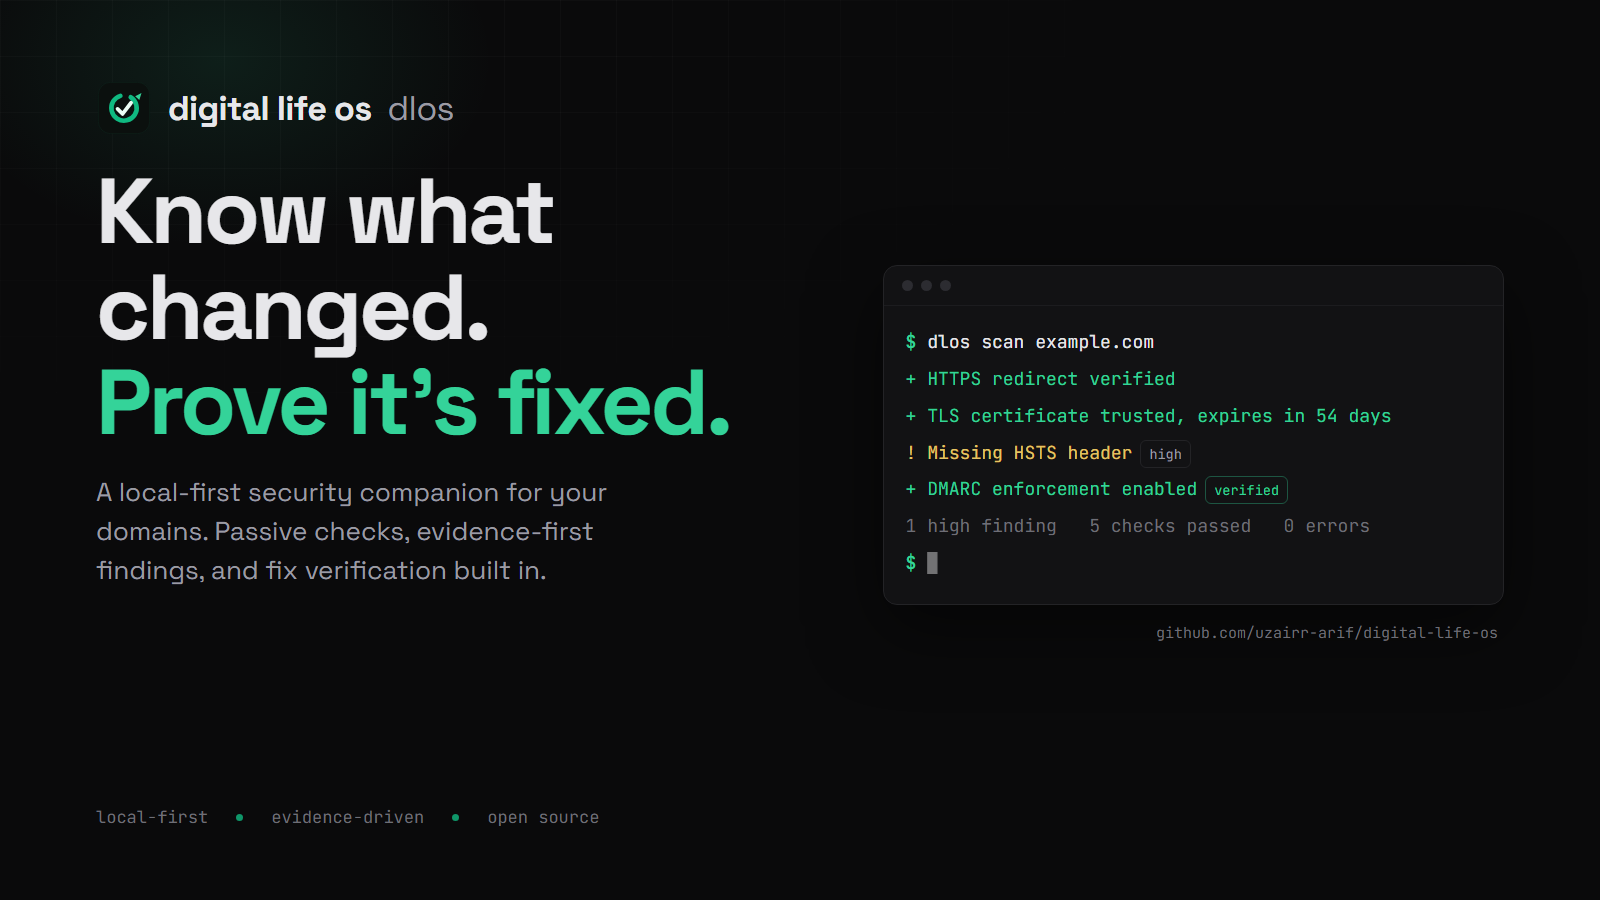
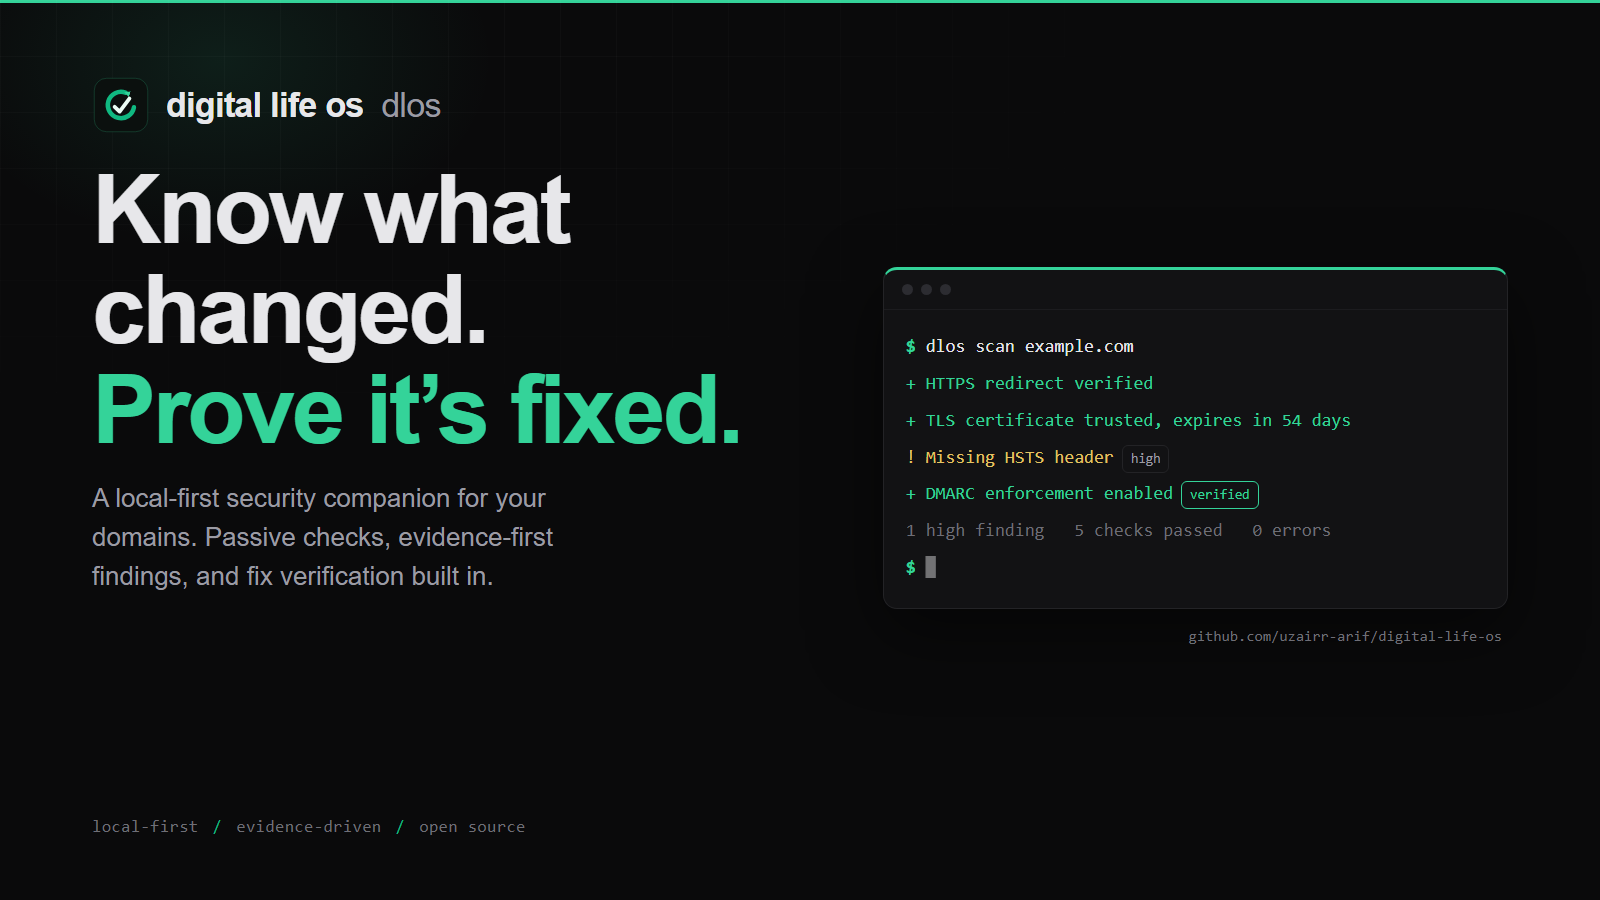
chore(brand): integrate the check into the loop, refresh social assets
The ring now opens toward the upper right and the check's arm reaches
through the opening - one gesture instead of two stacked glyphs. Adds a
mark-only variant for the README hero and site navigation, rebuilds the
social preview (1280x640) and promo tile (1600x900) against the new mark,
and switches the favicon to the unpadded chip.

diff --git a/site/index.html b/site/index.html
@@ -3,12 +3,12 @@
 <head>
 <meta charset="utf-8">
 <meta name="viewport" content="width=device-width, initial-scale=1">
-<title>dlos — know what changed, prove it's fixed</title>
+<title>dlos - know what changed, prove it's fixed</title>
 <meta name="description" content="Digital Life OS (dlos) is a local-first, evidence-driven personal security companion for the domains you own. Passive checks, evidence-first findings, and fix verification built in.">
 <link rel="icon" type="image/svg+xml" href="assets/favicon.svg">
 <link rel="stylesheet" href="assets/fonts/fonts.css">
 <meta property="og:type" content="website">
-<meta property="og:title" content="dlos — know what changed, prove it's fixed">
+<meta property="og:title" content="dlos - know what changed, prove it's fixed">
 <meta property="og:description" content="A local-first security companion for the domains you own: passive checks, evidence-first findings, and fix verification built in.">
 <meta property="og:url" content="https://uzairr-arif.github.io/digital-life-os/">
 <meta property="og:image" content="https://uzairr-arif.github.io/digital-life-os/assets/og.png">
@@ -219,7 +219,7 @@
 <nav>
   <div class="wrap">
     <a class="brand" href="#">
-      <img src="assets/logo.svg" alt="dlos logo">
+      <img src="assets/mark.svg" alt="dlos mark">
       digital&nbsp;life&nbsp;os <span class="short mono">dlos</span>
     </a>
     <div class="links">
@@ -409,7 +409,7 @@
 <footer>
   <div class="wrap">
     <div class="top">
-      <img src="assets/logo.svg" alt="">
+      <img src="assets/mark.svg" alt="">
       <span class="name">digital life os</span>
       <span class="mono">dlos</span>
     </div>
